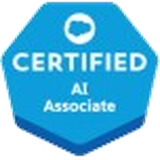
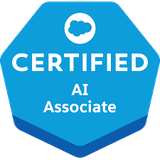
Add the Exavalu internship and the official AI Associate badge
The internship (Dec 2021 - Aug 2022) goes in as the earliest timeline
entry, covering the customer portal API and the Java work that preceded
the full-time developer role at the same company.

The AI Associate badge now comes from the official 227px artwork instead
of an 88px crop of the certificate scan, so all three badges match.

diff --git a/index.html b/index.html
@@ -970,6 +970,46 @@ footer{
           </div>
         </article>
 
+        <!-- Exavalu — internship -->
+        <article class="entry reveal">
+          <span class="node"></span>
+          <p class="entry-date mono">Dec 2021 &mdash; Aug 2022</p>
+          <h3>Intern</h3>
+          <p class="org">Exavalu Solutions Pvt. Ltd.</p>
+          <div class="projects">
+
+            <details class="proj">
+              <summary>
+                <span class="proj-title">Customer Portal API</span>
+                <span class="proj-tag">First Mule build</span>
+                <svg class="chev" viewBox="0 0 24 24" fill="none" stroke="currentColor" stroke-width="2" stroke-linecap="round" stroke-linejoin="round" aria-hidden="true"><path d="m6 9 6 6 6-6"/></svg>
+              </summary>
+              <div class="proj-body">
+                <ul>
+                  <li>Built a <b>customer portal API on MuleSoft</b> — the first Mule application I owned end to end — exposing customer records to the portal front end as a documented REST service.</li>
+                  <li>Learned the Anypoint toolchain hands on: <b>Anypoint Studio</b>, DataWeave transformations, connector configuration and deployment to a shared environment.</li>
+                  <li>Worked to the same review and delivery standards as the wider team, which is where the API-led habits behind everything since started.</li>
+                </ul>
+              </div>
+            </details>
+
+            <details class="proj">
+              <summary>
+                <span class="proj-title">Java Development &amp; Engineering Foundations</span>
+                <span class="proj-tag">Java</span>
+                <svg class="chev" viewBox="0 0 24 24" fill="none" stroke="currentColor" stroke-width="2" stroke-linecap="round" stroke-linejoin="round" aria-hidden="true"><path d="m6 9 6 6 6-6"/></svg>
+              </summary>
+              <div class="proj-body">
+                <ul>
+                  <li>Contributed to an in-house <b>Java</b> project, writing service-layer code and picking up the team's build, version-control and code-review workflow.</li>
+                  <li>Completed the company's structured MuleSoft onboarding, then <b>converted to a full-time MuleSoft Developer</b> on the same team.</li>
+                </ul>
+              </div>
+            </details>
+
+          </div>
+        </article>
+
       </div>
     </div>
   </section>
@@ -1040,7 +1080,7 @@ footer{
 
             <a class="cert" href="certificates/salesforce-ai-associate.jpg" target="_blank" rel="noopener">
               <span class="badgemark art">
-                <img src="badges/salesforce-ai-associate.png?v=2" width="160" height="160" loading="lazy" alt="Salesforce Certified AI Associate badge">
+                <img src="badges/salesforce-ai-associate.png?v=3" width="160" height="160" loading="lazy" alt="Salesforce Certified AI Associate badge">
               </span>
               <span class="cert-text">
                 <span class="cert-name">Salesforce AI Associate</span>
